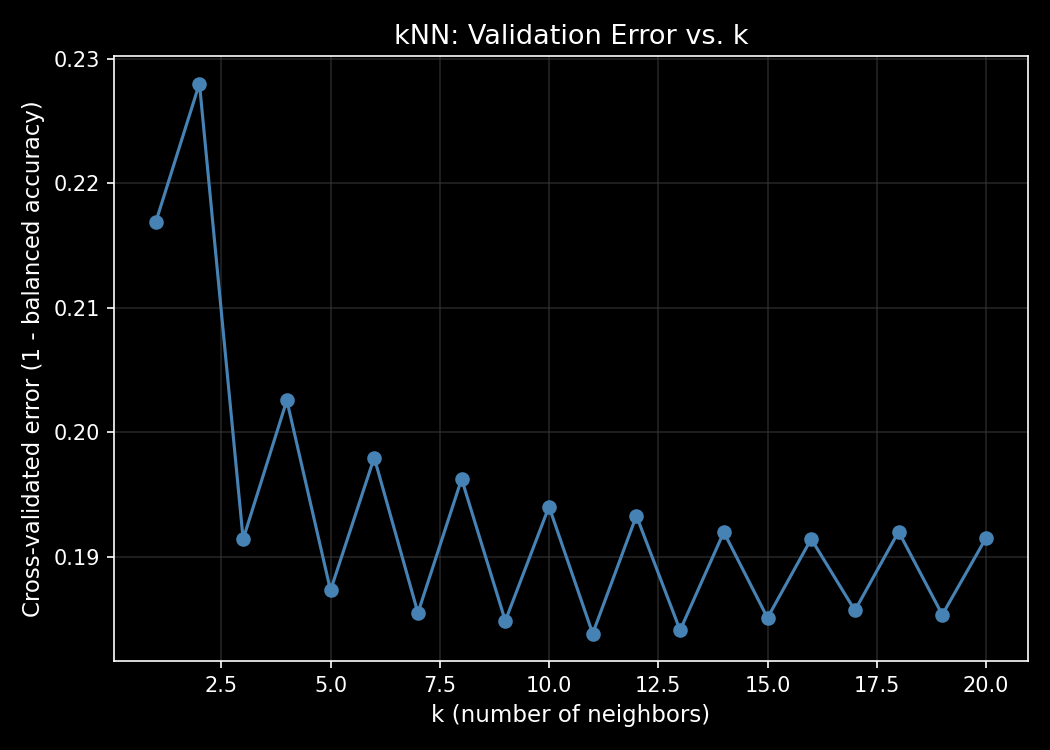
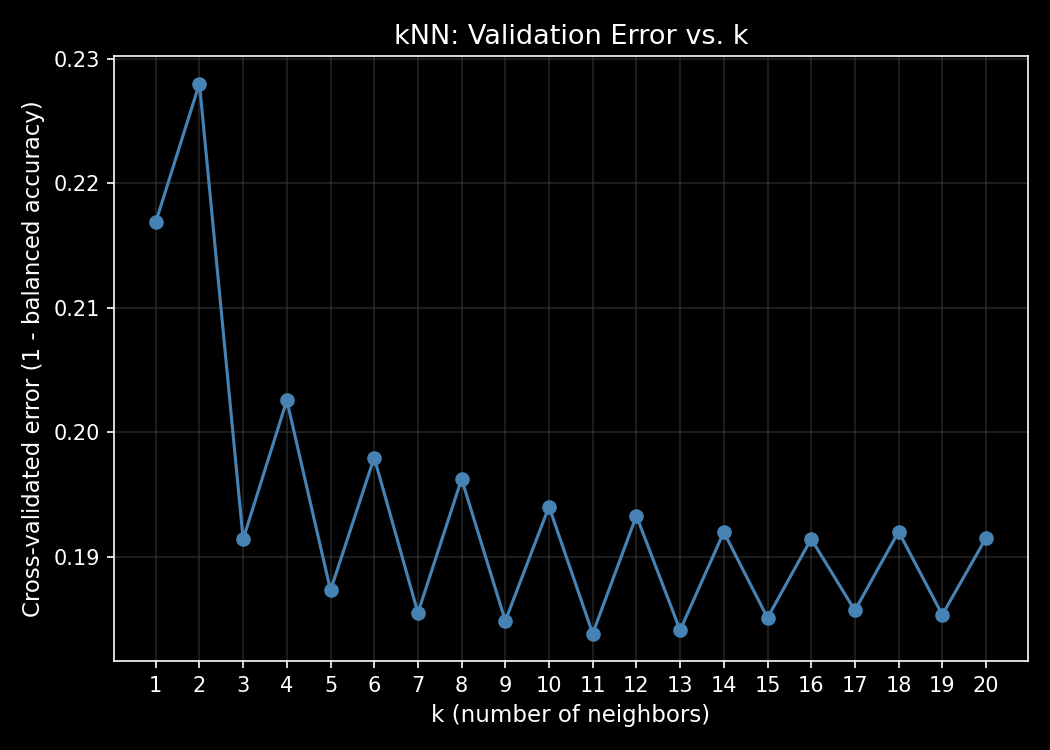
LDA out

diff --git a/01_eda.py b/01_eda.py
@@ -267,41 +267,15 @@ plt.show()
 print("Plot saved: 03_correlation_matrix.png")
 
 
-
 # SECTION 8: SCATTER PLOTS FOR KEY FEATURE PAIRS
-"""Presentation rule: max ~2 plots per slide. Instead of eyeballing which
-pair looks most/least separable, quantify it with the same metric used
-elsewhere in this project (balanced accuracy via CV), then keep only the
-best and worst pair."""
+"""Presentation rule: max ~2 plots per slide. Pairs are chosen directly from
+the evidence already shown in the histograms (Section X) and correlation
+matrix (Section Y) above, rather than an extra scoring step."""
 
-from sklearn.discriminant_analysis import LinearDiscriminantAnalysis
-from sklearn.model_selection import cross_val_score, StratifiedKFold
-from itertools import combinations  # ADDED
-
-# CHANGED: was a hand-picked list of 6 pairs; now every possible pair of the
-# 10 features, so best/worst are chosen from all C(10,2)=45 combinations
-# instead of only the ones we guessed might be interesting.
-pairs_to_plot = list(combinations(feature_cols, 2))  # CHANGED
-
-cv_strategy_eda = StratifiedKFold(n_splits=5, shuffle=True, random_state=42)
-
-pair_scores = {}
-for x_col, y_col in pairs_to_plot:
-    score = cross_val_score(
-        LinearDiscriminantAnalysis(),
-        df[[x_col, y_col]], df["class"],
-        cv=cv_strategy_eda,
-        scoring="balanced_accuracy"
-    ).mean()
-    pair_scores[(x_col, y_col)] = score
-
-print("\n--- Feature pair separability (LDA balanced accuracy, for slide selection) ---")
-for pair, score in sorted(pair_scores.items(), key=lambda kv: kv[1], reverse=True):
-    print(f"{pair[0]} vs {pair[1]}: {score:.3f}")
-
-best_pair = max(pair_scores, key=pair_scores.get)
-worst_pair = min(pair_scores, key=pair_scores.get)
-pairs_to_plot = [best_pair, worst_pair]
+# fLength vs fAlpha: both flagged as strong discriminators in the histograms
+# fConc vs fM3Trans: correlation matrix showed these are essentially
+# independent (r ~ -0.01), so this pair should show little to no separation
+pairs_to_plot = [("fLength", "fAlpha"), ("fConc", "fM3Trans")]
 
 sample = df.sample(n=2000, random_state=42)
 
@@ -315,11 +289,11 @@ for i, (x_col, y_col) in enumerate(pairs_to_plot):
         ax.scatter(subset[x_col], subset[y_col], alpha=0.3, s=10, color=color, label=label)
     ax.set_xlabel(x_col, fontsize=11)
     ax.set_ylabel(y_col, fontsize=11)
-    tag = "Best separated" if i == 0 else "Worst separated"
-    ax.set_title(f"{tag}: {x_col} vs {y_col} (LDA acc={pair_scores[(x_col, y_col)]:.3f})", fontsize=12)
+    tag = "Strong discriminator pair" if i == 0 else "Weak / redundant pair"
+    ax.set_title(f"{tag}: {x_col} vs {y_col}", fontsize=12)
     ax.legend(fontsize=9)
 
-plt.suptitle("Scatter Plots: Best vs. Worst Separated Feature Pair (sample of 2000)", fontsize=14)
+plt.suptitle("Scatter Plots: Feature Pairs Chosen from EDA Evidence (sample of 2000)", fontsize=14)
 plt.tight_layout()
 plt.savefig(os.path.join("results", "plots", "04_scatter_plots.png"), dpi=150, bbox_inches="tight")
 plt.show()

diff --git a/03_baseline_knn.py b/03_baseline_knn.py
@@ -32,7 +32,6 @@ from sklearn.metrics import (
     confusion_matrix, roc_curve, roc_auc_score,
     ConfusionMatrixDisplay
 )
-from sklearn.pipeline import Pipeline
 
 
 plt.style.use("dark_background")
@@ -77,13 +76,11 @@ pipe_knn = Pipeline([
     ("feature_select", SequentialFeatureSelector(
         KNeighborsClassifier(n_neighbors=15),
         n_features_to_select="auto",
-        tol=0.001,
+        tol=0.001,      # tolerance for stopping automatic feature selection (when to stop)
         direction="backward",
         scoring="balanced_accuracy",
         cv=cv_strategy,
-        n_jobs=1    # CHANGED: was -1 -- outer GridSearchCV already
-                  # parallelizes across k values/folds; parallelizing here
-                  # too oversubscribes the CPU (more processes than cores)
+        n_jobs=1  # 1 cpu works on this
     )),
     ("clf", KNeighborsClassifier())
 ], memory=pipe_cache)  # ADDED: cache feature_select's fit per fold (see note above)
@@ -95,7 +92,7 @@ grid_search = GridSearchCV(
     param_grid={"clf__n_neighbors": k_values},
     cv=cv_strategy,
     scoring="balanced_accuracy",
-    n_jobs=-1
+    n_jobs=-1   # use all cpus
 )
 grid_search.fit(X_train, y_train)
 
@@ -128,6 +125,7 @@ ax.plot(k_values, cv_errors, marker="o", color="steelblue")     # dots on each d
 ax.set_xlabel("k (number of neighbors)", fontsize=11)
 ax.set_ylabel("Cross-validated error (1 - balanced accuracy)", fontsize=11)
 ax.set_title("kNN: Validation Error vs. k", fontsize=13)
+ax.set_xticks(k_values)          # ADD THIS — force a tick at every k value, 1 through 20
 ax.grid(True)   # turn on grid lines for easier comparisons
 
 plt.tight_layout()
